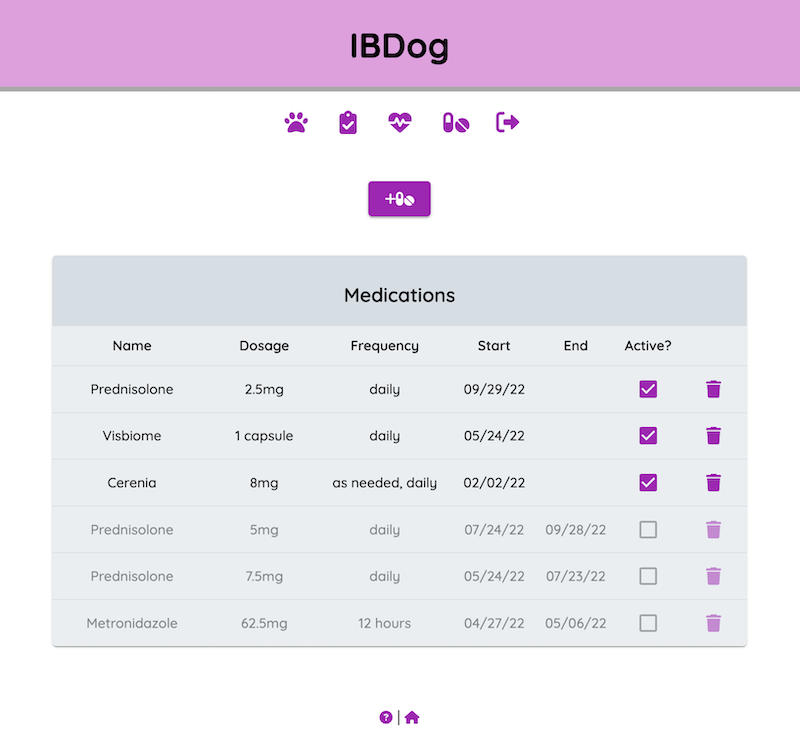
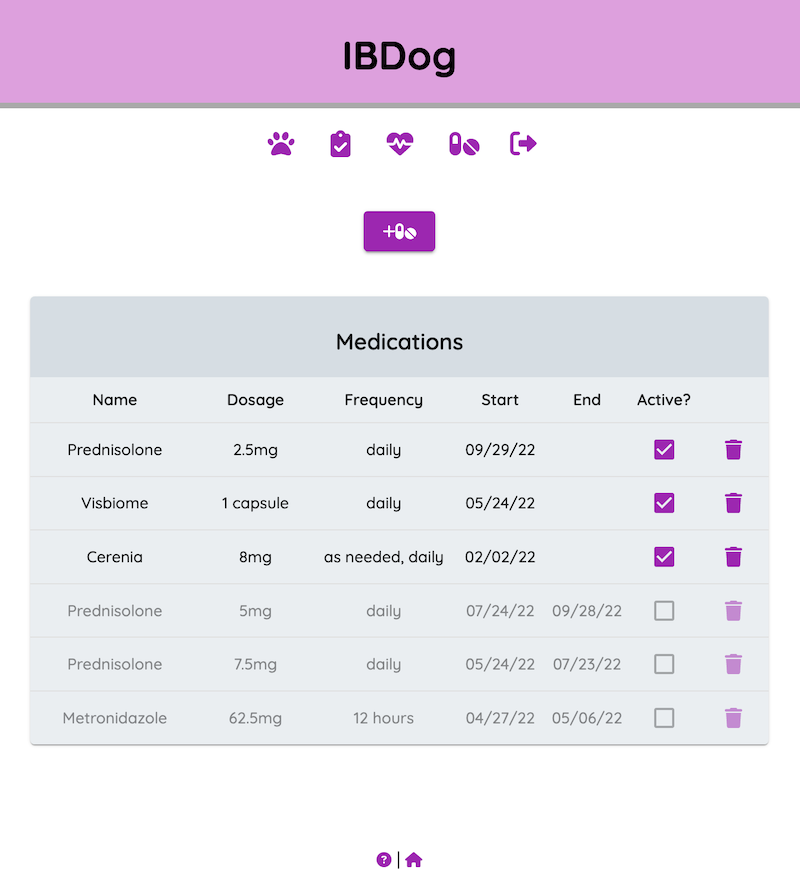
update to readme screenshots

diff --git a/README.md b/README.md
@@ -1,76 +1,79 @@
 
 # IBDog
 
-## About
-
 Pet owners play a crucial role in navigating veterinary healthcare systems and advocating for their animals. IBDog improves quality of life for dogs with Inflammatory Bowel Disease by helping owners better manage the chronic condition and communicate their observations with treating veterinarians. Users log symptoms, update medications, and see their dog's condition over time via a health score heatmap. 
 
-## Screenshots
+### Screenshots
+<h4 align="center">Home</h4>
+<div align="center">
+ <img src="public/images/home.png" width=400 />
+</div>
 
-#### Home
-![home](public/images/home.png){style="display: block; margin: 0 auto" }
+<h4 align="center">Check-In</h4>
+<div align="center">
+ <img src="public/images/checkin.png" width=400 />
+</div>
 
-#### Check-In
-![home](public/images/checkin.png){style="display: block; margin: 0 auto" }
+<h4 align="center">Health Status</h4>
+<div align="center">
+ <img src="public/images/healthstatus.png" width=600 />
+</div>
 
-#### Health Status
-![home](public/imagess/healthstatus.png){style="display: block; margin: 0 auto" }
+<h4 align="center">Medications</h4>
+<div align="center">
+ <img src="public/images/medications.png" width=400 />
+</div>
 
-#### Medications
-![home](public/imagess/healthstatus.png){style="display: block; margin: 0 auto" }
-
-## Built With
+### Built With
 
 React.js | Redux | Redux-Saga | Material UI | Axios | PostgreSQL | Node.js | Express
 
-## Usage
+### Usage
 
-### Prerequisites
+#### Prerequisites
 
 - [Node.js](https://nodejs.org/en/)
 - [PostrgeSQL](https://www.postgresql.org/)
 - [Nodemon](https://nodemon.io/)
 
-### Installation
+#### Installation
 
 1. Create a database named `ibd_dog` and execute the queries from `database.sql` to create the `user`, `dog`, `medication`, and `symptom` tables. 
 2. Within a code editor, open a terminal window and install the dependencies by running:
     - `npm install`
 3. Run `npm run server` to start the server in one terminal window. Open a second terminal window, and run `npm run client` to start the client. Access the application at `localhost:3000/#/` in the browser.
 
-### Registration and Login
+#### Registration and Login
 
 1. To register as a new user, click `REGISTER`. Enter a username, password, dog's name, and dog's birthday.
 2. To login as an existing user, enter the username and password and click `LOGIN`. 
 
-### Home
+#### Home
 
 1. Click the paw icon under the header or the home icon in the footer to access the Home page. 
 2. This page displays the dog's name, birthday, current food, and active medications.
 3. To make edits to the dog's name, birthday, food, or image, click `EDIT`. Update the fields with any changes. Click `SAVE` to preserve your changes or `CANCEL` to discard.
 
-### Check-In
+#### Check-In
 
 1. Click the clipboard icon under the header to access Check-In.
 2. Use the radio buttons to select answers to the five questions and the checkbox to indicate whether medications were given that day. The answers to these questions are converted to a total score and color that is displayed on the the Health Status page.
 3. Click `SUBMIT` to enter a record. A record can be submitted once per day.
 
-### Health Status
+#### Health Status
 
 1. Click the heart icon under the header to access Health Status and view prior Check-In submissions.
 2. Click the pencil icon to edit entries. Click the floppy disk to save changes. Click `x` to discard changes. 
 3. Click the trash icon to delete a record. A prompt will ask for confirmation prior to deleting.
 4. Use the dropdown in the table footer to change the number of records displayed on each page and the left and right arrows to navigate from page to page. 
 
-### Medications
+#### Medications
 
 1. Click the pill icon under the header to access Medications.
 2. Add a medication by clicking the purple plus button above the Medications table. Enter a name, dosage, frequency, and start date. Click `SUBMIT` when done. Medications are active by default when added.
 3. Mark a medication inactive by deselecting the checkbox under the Active column. The date the medication was marked inactive is generated in the End column if a start date was provided.
 4. Delete a medication by clicking the trash icon. A prompt will ask for confirmation prior to deleting.
 5. Active medications appear on the Medications page as well as on the Home page. 
-
-
 
 
 
